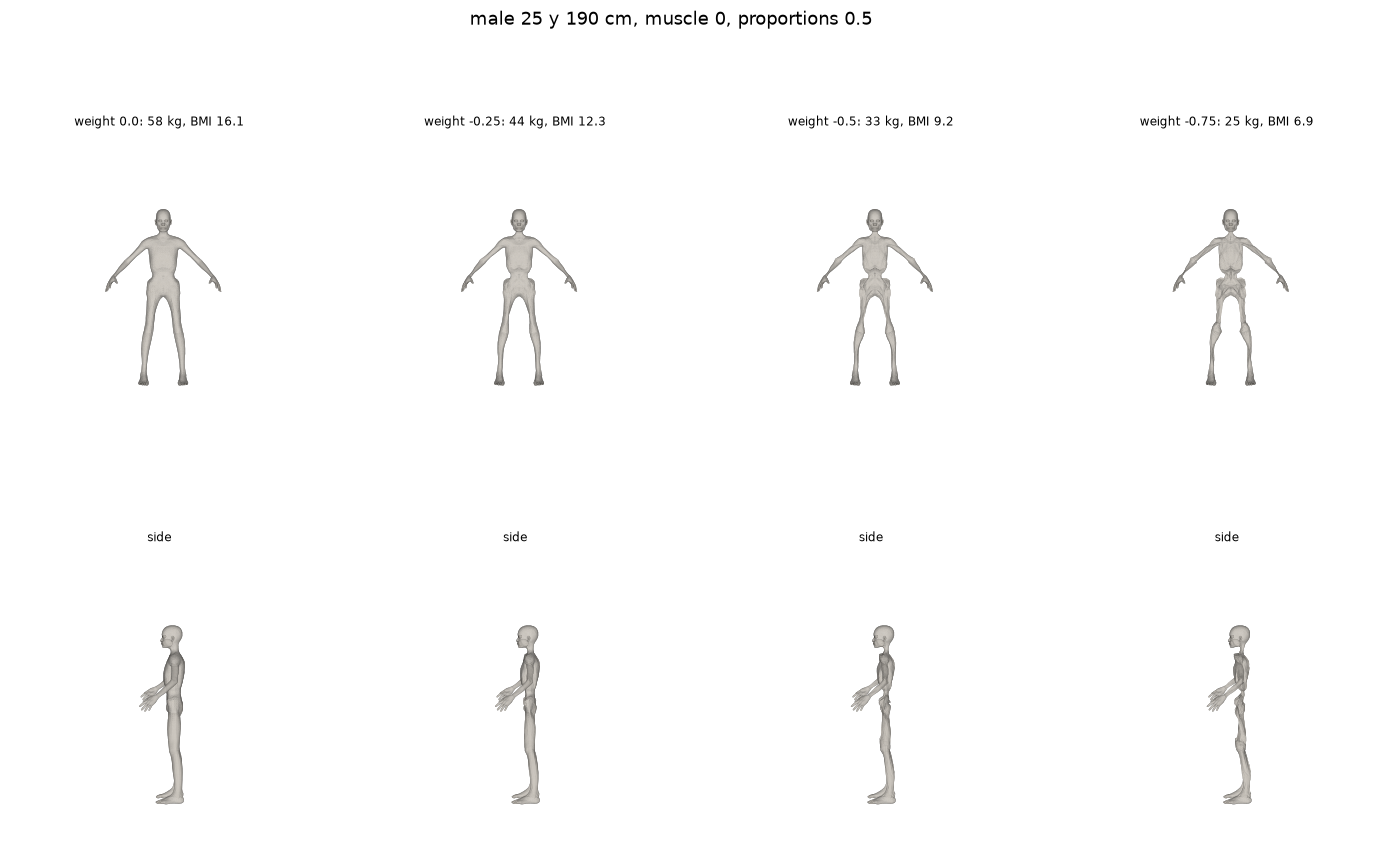
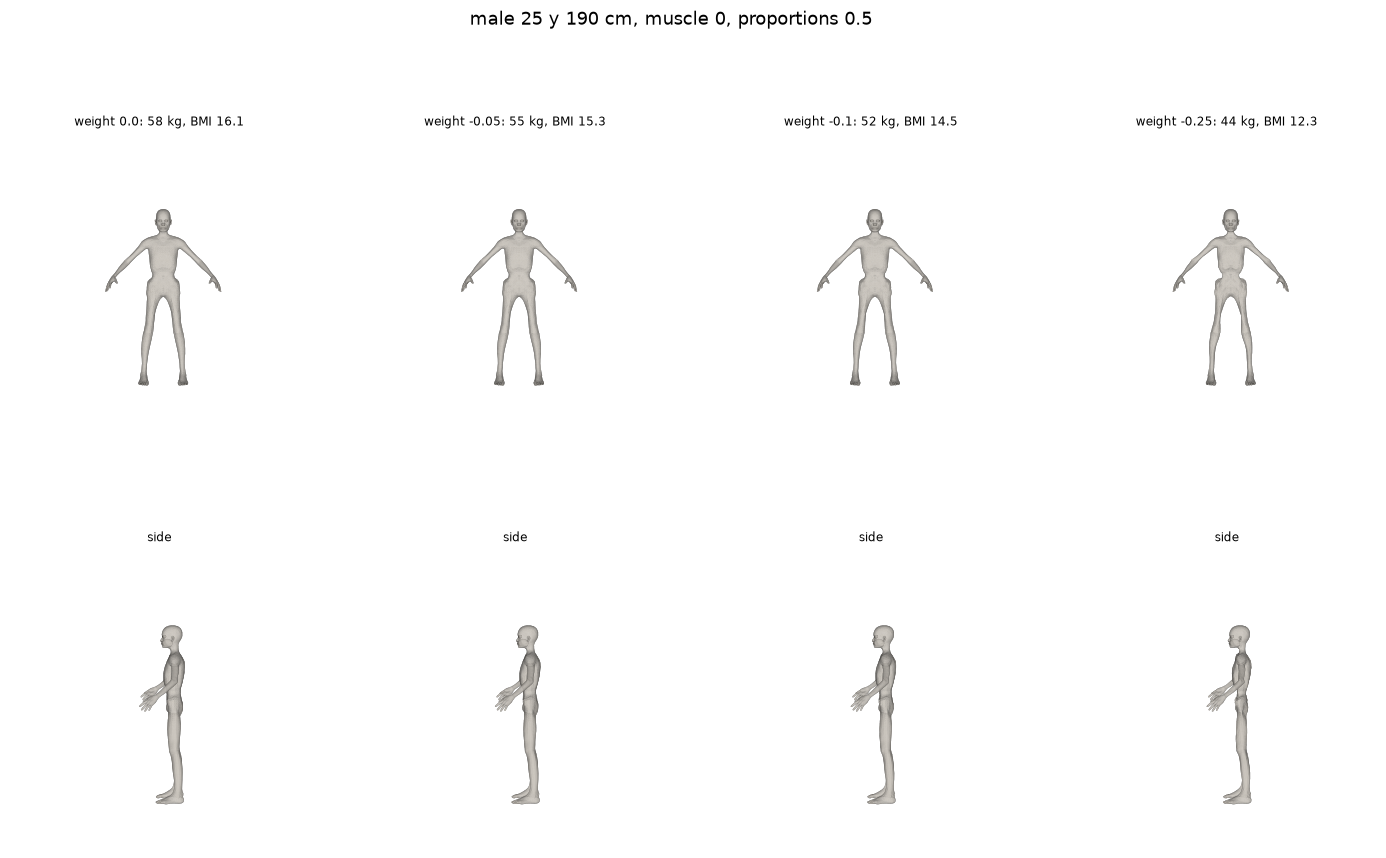
Allow float32 rounding in the weight range check; thin renders at -0.05 and -0.1

diff --git a/engine/tests/test_body_fit.py b/engine/tests/test_body_fit.py
@@ -114,9 +114,10 @@ def test_bmi_range_edges_are_matched(model, height):
         except ValueError as error:
             misses.append((sex, bmi, height, weight, str(error)))
             continue
-        if abs(got_height - height) > 0.5 or abs(got_mass - weight) > 0.02 * weight:
-            misses.append((sex, bmi, height, weight, round(got_height, 1), got_mass))
-        assert FIT_WEIGHT_RANGE[0] <= phenotype["weight"] <= FIT_WEIGHT_RANGE[1]
+        w = phenotype["weight"]  # float32 inside the fit: −0.1 comes back as −0.10000000149
+        in_range = FIT_WEIGHT_RANGE[0] - 1e-6 <= w <= FIT_WEIGHT_RANGE[1] + 1e-6
+        if not in_range or abs(got_height - height) > 0.5 or abs(got_mass - weight) > 0.02 * weight:
+            misses.append((sex, bmi, height, weight, round(got_height, 1), got_mass, w))
     assert misses == []
 
 
